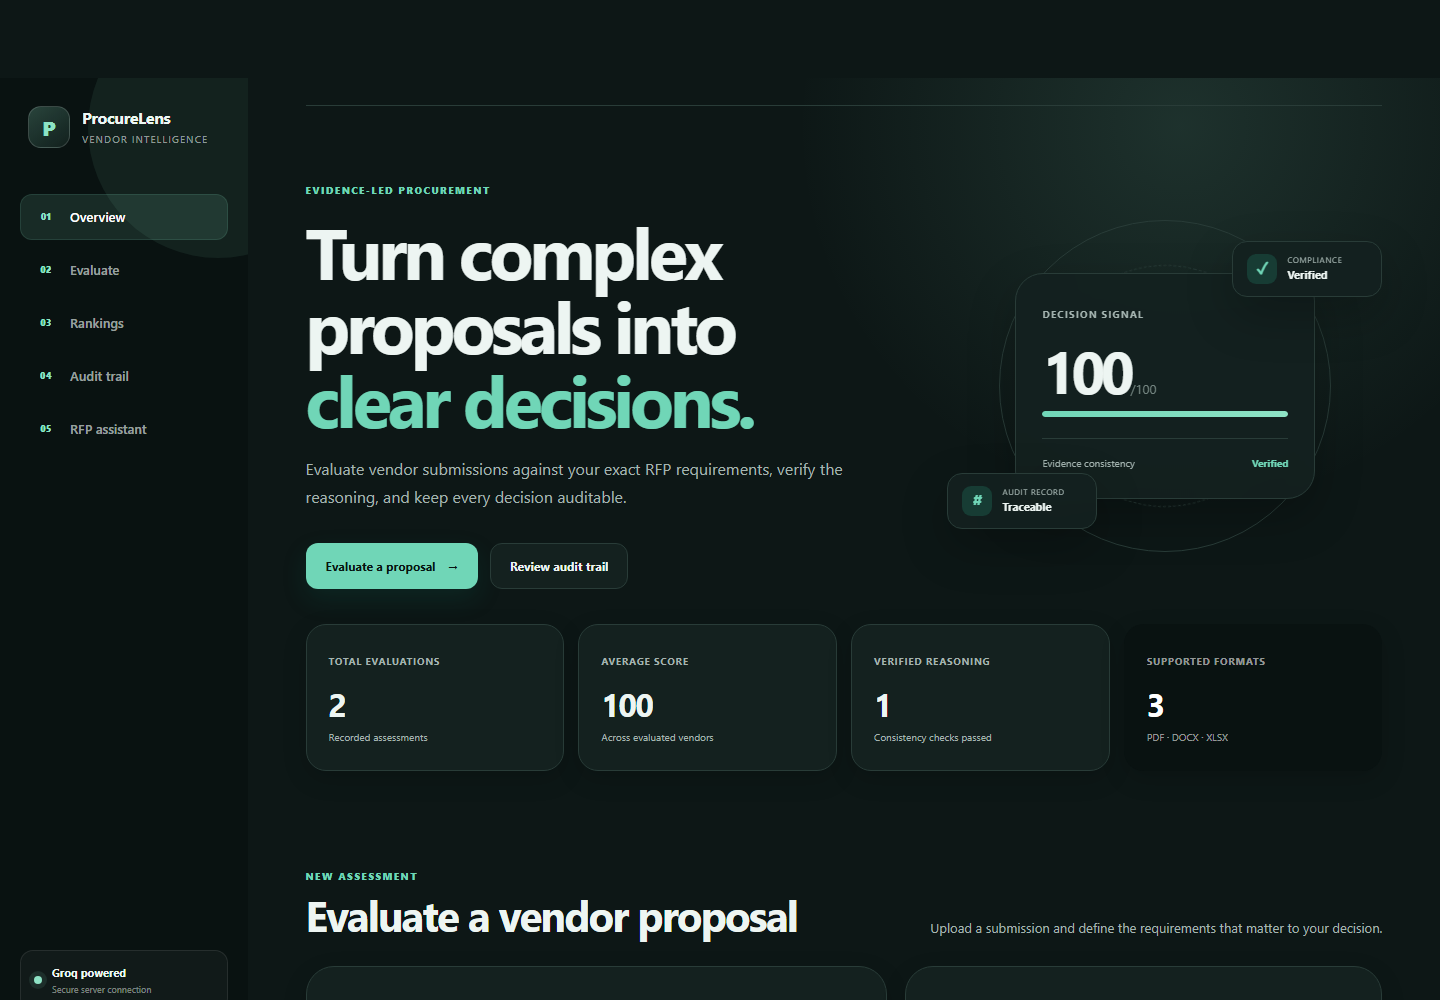
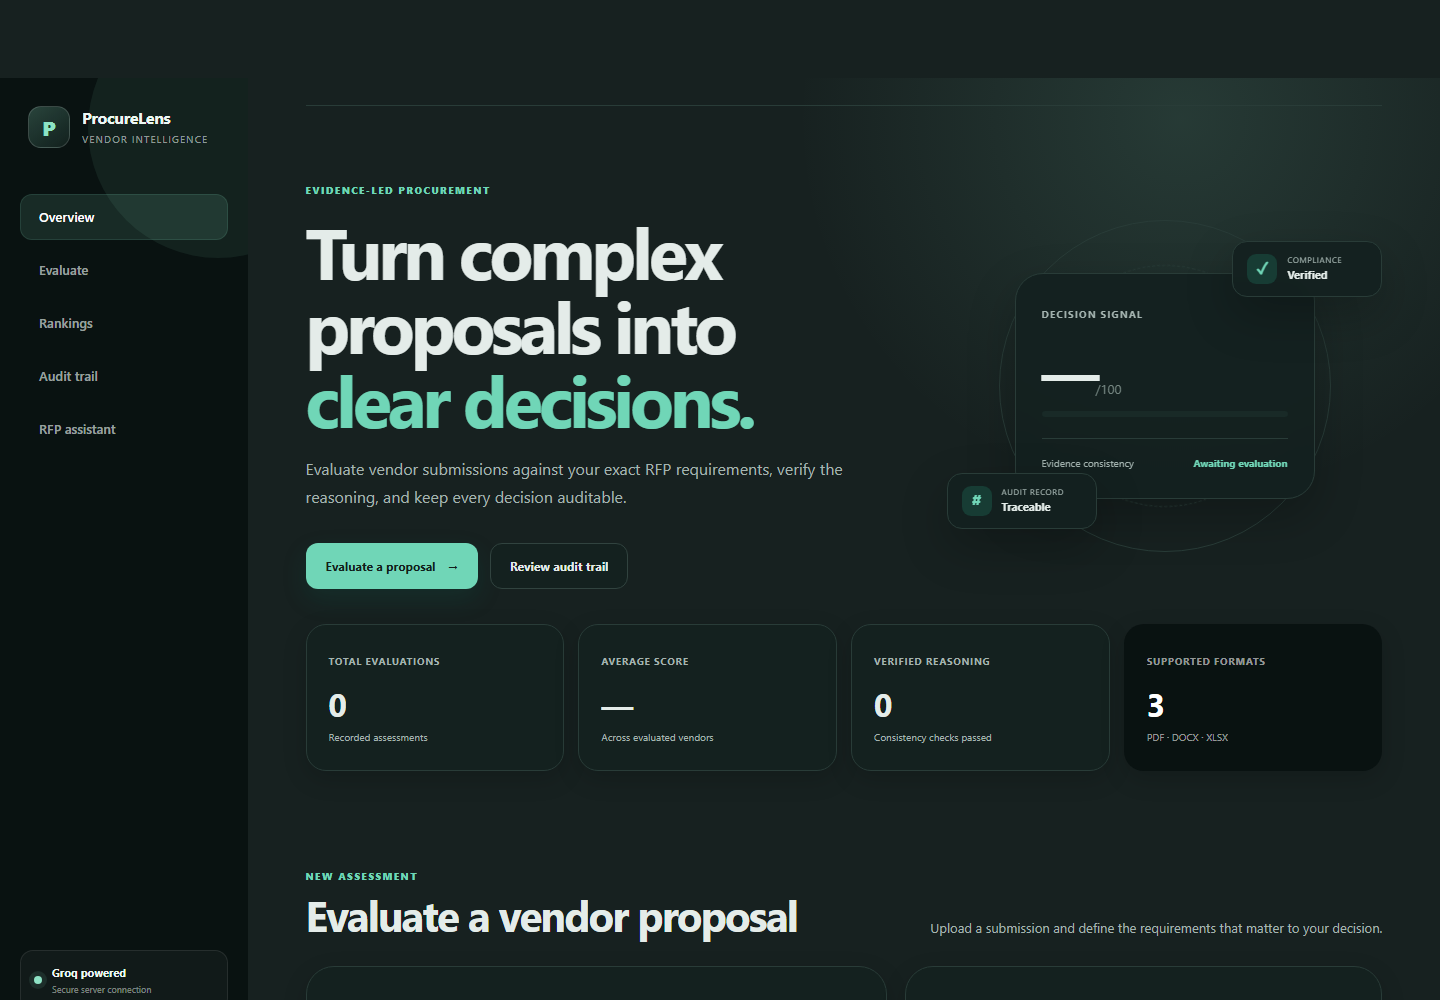
Refresh README for latest dashboard UI

diff --git a/README.md b/README.md
@@ -142,9 +142,10 @@ documentation remains available at <http://127.0.0.1:8000/docs>.
 ## Web Dashboard
 
 The built-in interface requires no separate frontend server or build step. It
-provides proposal upload, criteria entry, evaluation results, vendor rankings,
-audit filtering, grounded RFP question answering, and a persistent theme
-preference. All requests are sent to the FastAPI backend on the same origin.
+provides streamlined sidebar navigation, proposal upload, criteria entry,
+evaluation results, vendor rankings, audit filtering, grounded RFP question
+answering, and a persistent theme preference. All requests are sent to the
+FastAPI backend on the same origin.
 
 ## API Reference
 